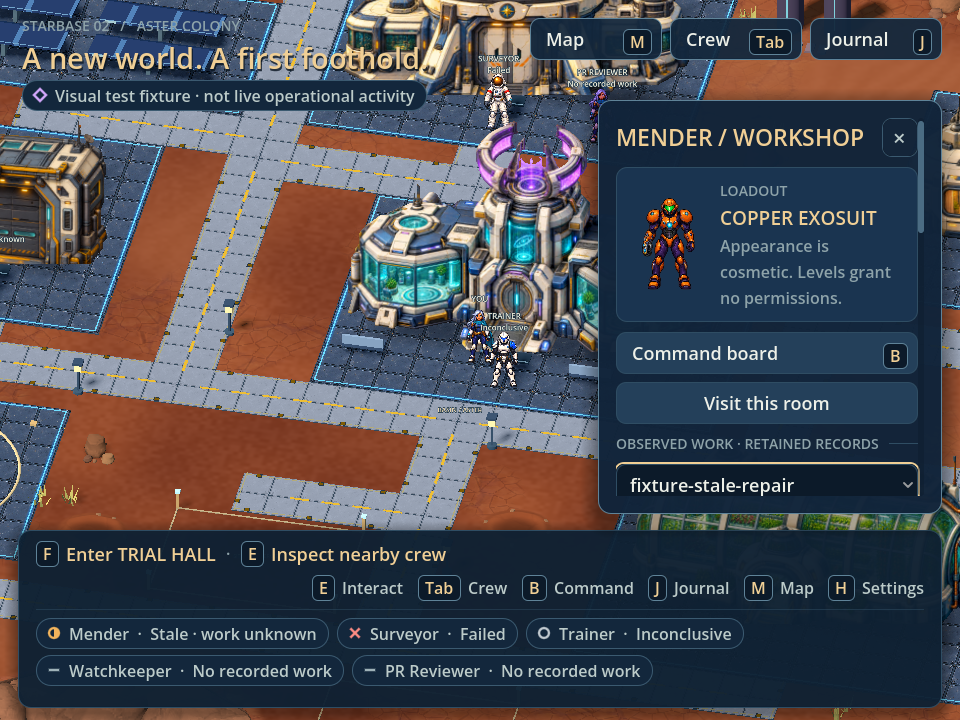
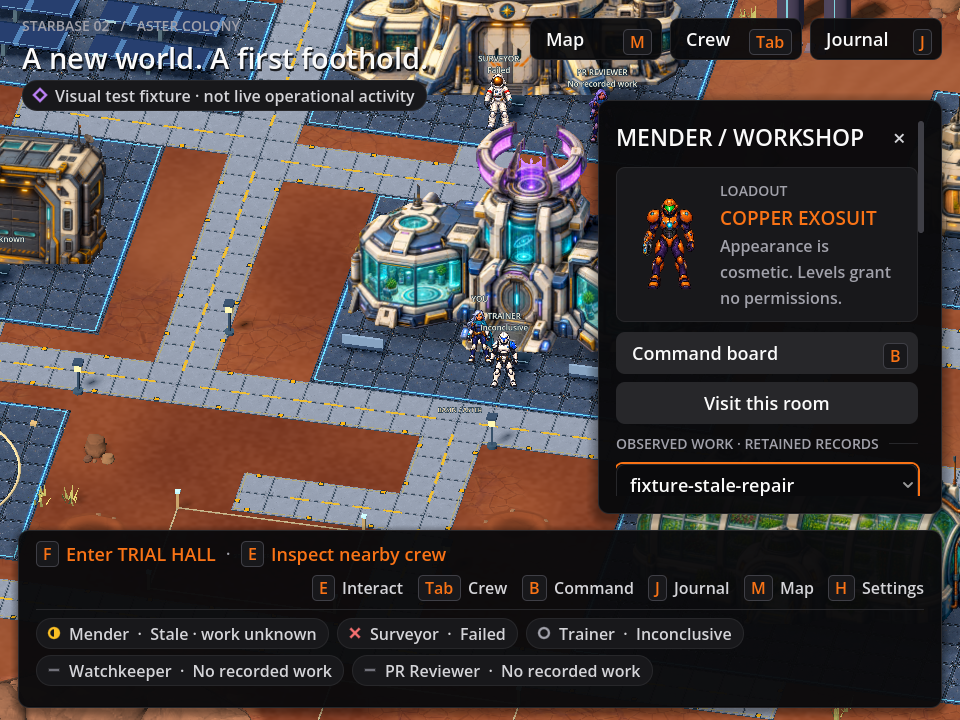
Move the native panels to a zinc-dark, orange-accent theme
Replace the blue palette with near-black surfaces, one-pixel neutral
borders, white headings, muted secondary text and a single orange accent
for primary actions, key caps, section titles and prompts, after the
shadcn dark convention. Tabs become a segmented list, shadows quieten,
radii tighten, and an outline button variant covers evidence toggles,
record sources and journal links. Tokens only; layout, tests and state
projection are unchanged. Evidence captures and the suite log are
refreshed for the new palette.

Claude-Session: https://claude.ai/code/session_01UQ2t3SMP9mz813VbnCT41H

diff --git a/docs/world-ui.md b/docs/world-ui.md
@@ -20,7 +20,12 @@ makes state legible without colour.
 ## Implemented
 
 One theme module, [`ui_theme.gd`](../apps/world/ui_theme.gd), owns colour tokens,
-a type scale, panel/button/input/tab/scrollbar styles and small composable parts:
+a type scale, panel/button/input/tab/scrollbar styles and small composable parts.
+The palette follows the shadcn dark convention: near-black zinc surfaces, one-pixel
+neutral borders, white headings, muted secondary text and a single orange accent
+for primary actions, key caps, section titles and prompts. Button variants are
+secondary (default), primary, outline, ghost, destructive and icon; tabs are a
+segmented list. The parts are:
 section rules, cards, key caps, badges, chips, toasts and a `Glyph` control. Every
 panel is built from those parts; no panel defines its own colours.
 
